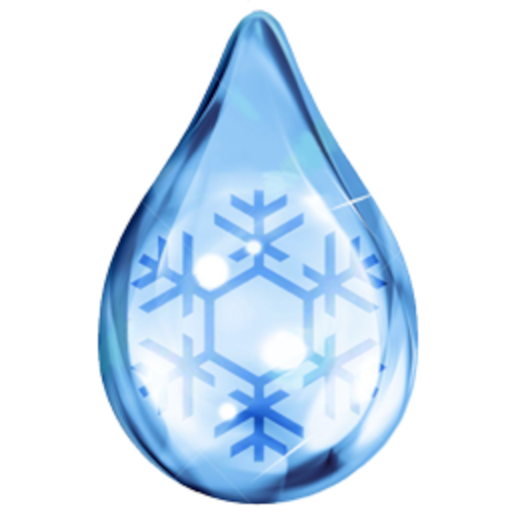
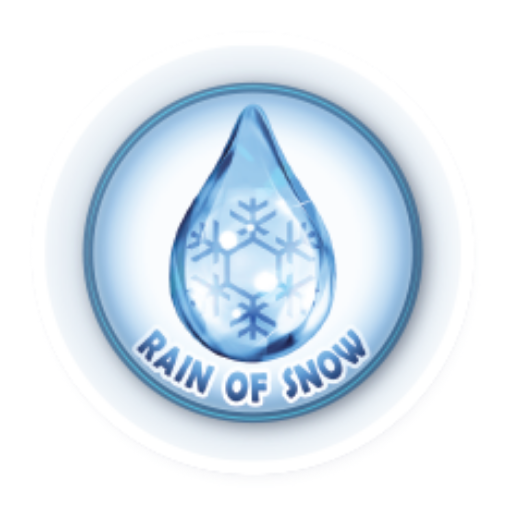
Rain of snow: Fixes (#7170)
* Update build.gradle

* Update RainOfSnow.kt

* Updated Icon to new Icon

diff --git a/src/en/rainofsnow/src/eu/kanade/tachiyomi/extension/en/rainofsnow/RainOfSnow.kt b/src/en/rainofsnow/src/eu/kanade/tachiyomi/extension/en/rainofsnow/RainOfSnow.kt
@@ -1,6 +1,7 @@
 package eu.kanade.tachiyomi.extension.en.rainofsnow
 
 import eu.kanade.tachiyomi.network.GET
+import eu.kanade.tachiyomi.source.model.Filter
 import eu.kanade.tachiyomi.source.model.FilterList
 import eu.kanade.tachiyomi.source.model.Page
 import eu.kanade.tachiyomi.source.model.SChapter
@@ -49,9 +50,21 @@ open class RainOfSnow() : ParsedHttpSource() {
     override fun popularMangaNextPageSelector() = ".page-numbers .next"
 
     override fun searchMangaRequest(page: Int, query: String, filters: FilterList): Request {
-        val url = "$baseUrl/".toHttpUrlOrNull()!!.newBuilder()
-        url.addQueryParameter("serchfor", "comics")
-        url.addQueryParameter("s", query)
+        if (query.isNotEmpty()) {
+            val url = "$baseUrl/".toHttpUrlOrNull()!!.newBuilder()
+            url.addQueryParameter("s", query)
+            return GET(url.build().toString(), headers)
+        }
+        val url = "$baseUrl/comics/".toHttpUrlOrNull()!!.newBuilder()
+        filters.forEach { filter ->
+            when (filter) {
+                is AlbumTypeSelectFilter -> {
+                    if (filter.state != 0) {
+                        url.addQueryParameter("n_orderby", filter.toUriPart())
+                    }
+                }
+            }
+        }
         return GET(url.build().toString(), headers)
     }
 
@@ -117,8 +130,30 @@ open class RainOfSnow() : ParsedHttpSource() {
 
     override fun pageListParse(document: Document): List<Page> = mutableListOf<Page>().apply {
         document.select("[style=display: block;] img").forEachIndexed { index, element ->
-            add(Page(index, "", element.attr("abs:src")))
+            add(Page(index, "", element.attr("abs:data-src")))
         }
+    }
+
+    // Filters
+    override fun getFilterList(): FilterList = FilterList(
+        Filter.Header("NOTE: Ignored if using text search!"),
+        Filter.Separator(),
+        AlbumTypeSelectFilter(),
+    )
+    private class AlbumTypeSelectFilter() : UriPartFilter(
+        "Type",
+        arrayOf(
+            Pair("All", ""),
+            Pair("Manga", "95"),
+            Pair("Manhua", "115"),
+            Pair("Manhwa", "105"),
+            Pair("Vietnamese Comic", "306"),
+        )
+    )
+
+    private open class UriPartFilter(displayName: String, val vals: Array<Pair<String, String>>) :
+        Filter.Select<String>(displayName, vals.map { it.first }.toTypedArray()) {
+        fun toUriPart() = vals[state].second
     }
 
     override fun latestUpdatesFromElement(element: Element) = throw Exception("Not used")
